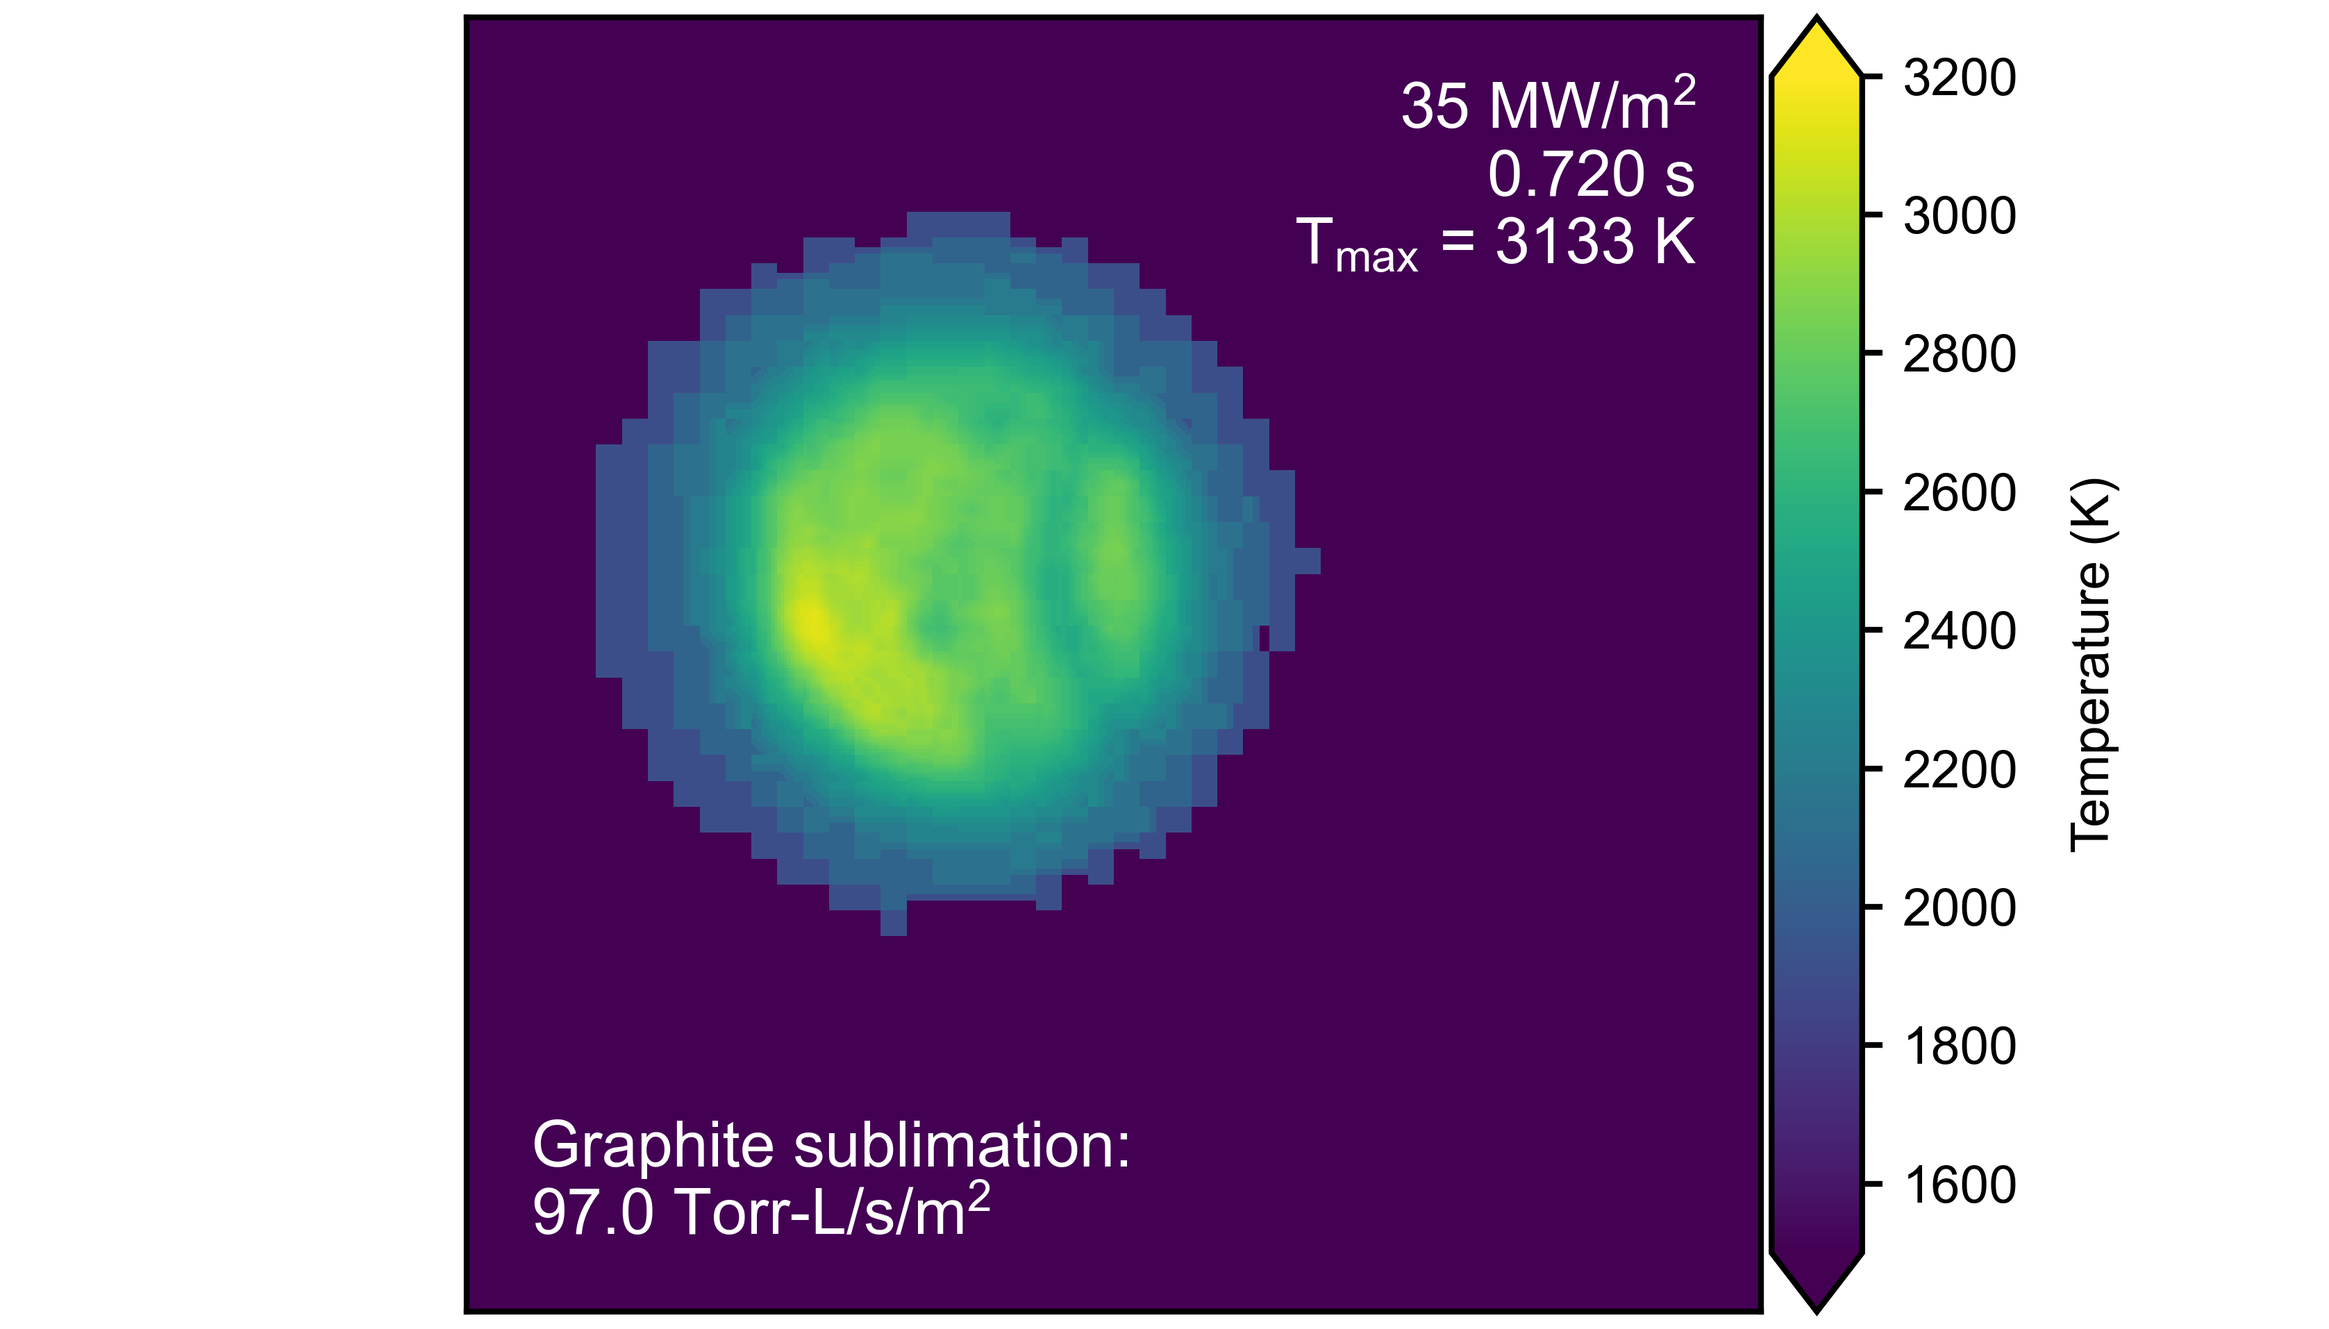
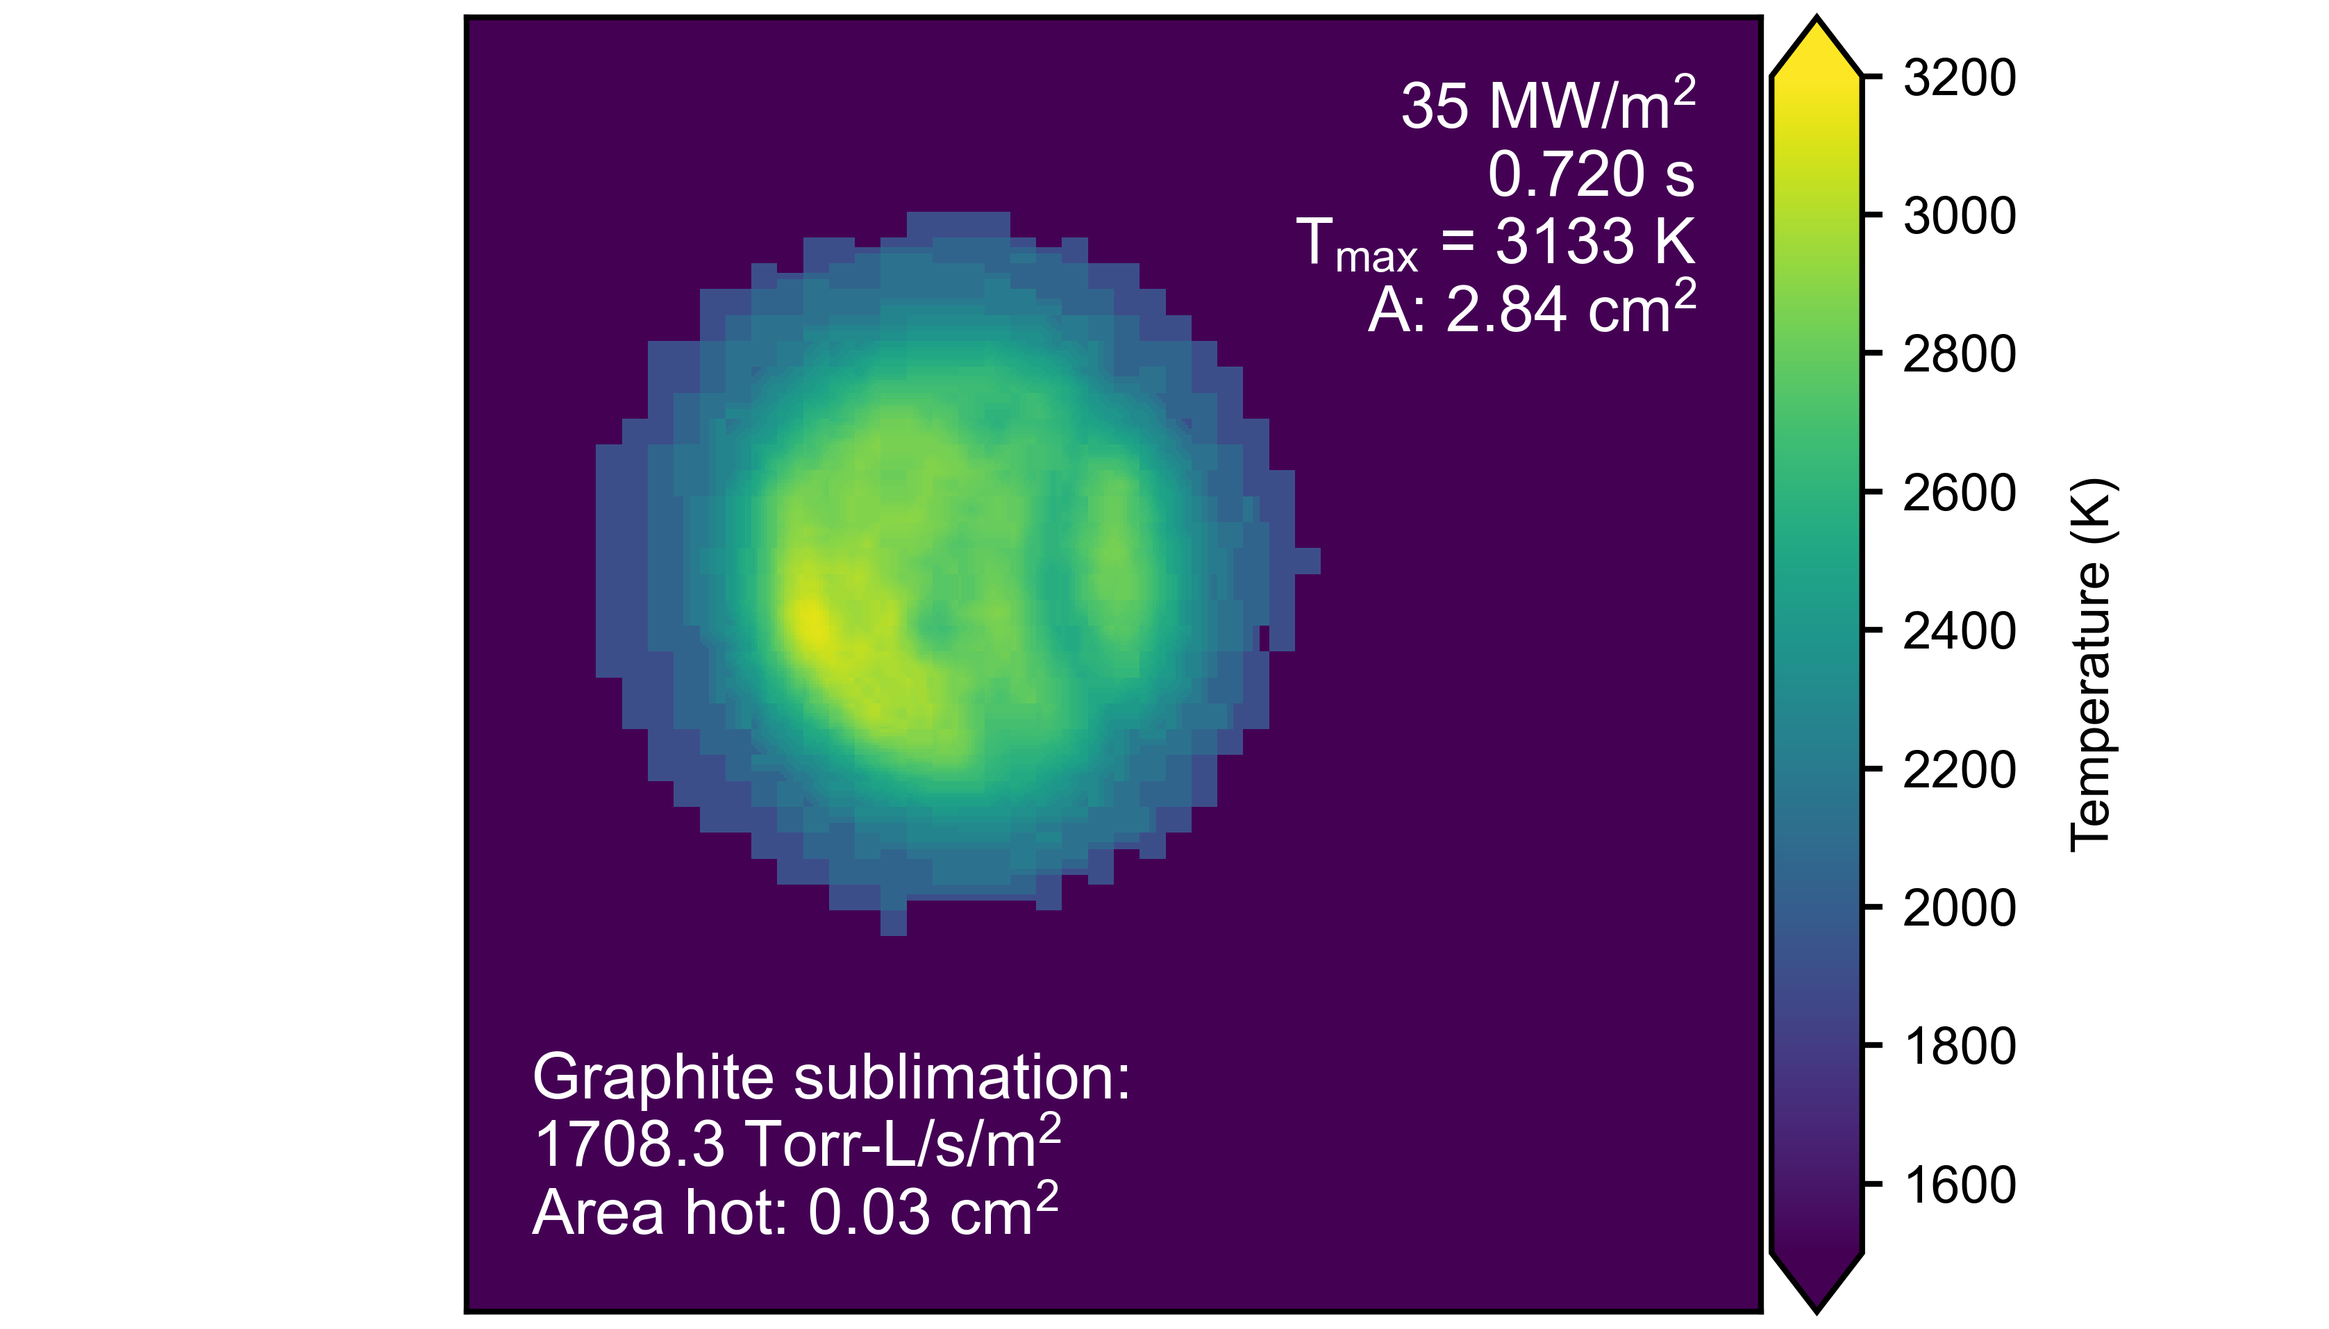
Updated graphite sublimation

Changed region(s): [[0.2171, 0.8015, 0.4961, 0.9248], [0.5891, 0.2158, 0.7442, 0.2466]]

diff --git a/data_processing/figures/2023_Q4/pebble_temperature_vs_time.py b/data_processing/figures/2023_Q4/pebble_temperature_vs_time.py
@@ -9,7 +9,7 @@ from skimage.util import crop
 
 from mpl_toolkits.axes_grid1 import make_axes_locatable
 from scipy.stats.distributions import t
-from data_processing.utils import get_experiment_params
+from data_processing.utils import get_experiment_params, latex_float
 import json
 import cv2
 
@@ -29,6 +29,9 @@ calibration_path = r'Documents\ucsd\Postdoc\research\thermal camera\calibration\
 
 beam_radius = 0.5 * 0.8165  # * 1.5 # 0.707
 sample_diameter = 1.025
+
+row_id_s = 426
+row_id_b = 435
 
 """
 Parameters for the deposition cone
@@ -157,16 +160,20 @@ def get_sublimation_rate(temperature_k, r0=r_0, ea=e_a):
     return r0 * np.exp(-ea / (8.617333262e-05 * temperature_k))
 
 
-def sublimation_rate_thermal_img(t_img, msk, area):
+def sublimation_rate_thermal_img(t_img, threshold=0):
     n, m = t_img.shape
     g_rate = 0.
     cnt = 0
+    hot_area = 0
     for i in range(n):
         for j in range(m):
-            if msk[i, j]:
-                g_rate += get_sublimation_rate(t_img[i, j])
+            temp_i = t_img[i, j]
+            if temp_i > threshold:
                 cnt += 1
-    return g_rate / cnt
+                sr = get_sublimation_rate(t_img[i, j])
+                hot_area += px2cm ** 2.
+                g_rate += sr
+    return g_rate / cnt,  hot_area
 
 
 def get_cropped_image(img) -> np.ndarray:
@@ -179,13 +186,19 @@ def get_cropped_image(img) -> np.ndarray:
     return img2
 
 
-def get_img_msk(signal) -> np.ndarray:
-    # n, m = signal.shape
-    # temp_img = np.zeros((n, m), dtype=float)
-    # for i in range(n):
-    #     for j in range(m):
-    #         temp_img[i, j] = cali[int(s)]
-    return signal > 0  # .astype(np.uint8)
+def threshold_image(signal, threshold=0):
+    msk = get_img_msk(signal, threshold)
+    n, m = signal.shape
+    temp_img = np.zeros((n, m), dtype=float)
+    for i in range(n):
+        for j in range(m):
+            if msk[i, j]:
+                temp_img[i, j] = signal[i, j]
+    return temp_img
+
+
+def get_img_msk(signal, threshold=0) -> np.ndarray:
+    return signal > threshold  # .astype(np.uint8)
 
 
 def main():
@@ -249,6 +262,20 @@ def main():
 
     sample_area_cm2 = 0.25 * np.pi * sample_diameter ** 2.
 
+    fig_bs, ax_bs = plt.subplots(nrows=1, ncols=1, constrained_layout=True)
+    # fig_bs.subplots_adjust(hspace=0)
+    fig_bs.set_size_inches(4., 3.)
+    ax_bs.set_title(r'35 MW/m$^{\mathregular{2}}$')
+    ax_bs.set_xlabel('t [s]')
+    ax_bs.set_ylabel('T [K]')
+    ax_bs.set_ylim(1000, 3000)
+    ax_bs.yaxis.set_major_locator(ticker.MultipleLocator(500))
+    ax_bs.yaxis.set_minor_locator(ticker.MultipleLocator(100))
+    ax_bs.set_xlim(0, 0.15)
+
+    ax_bs.xaxis.set_major_locator(ticker.MultipleLocator(0.05))
+    ax_bs.xaxis.set_minor_locator(ticker.MultipleLocator(0.01))
+
     for i, row in transmission_df.iterrows():
         row_id = row['ROW']
         sample_id = row['Sample ID']
@@ -285,12 +312,17 @@ def main():
 
             ax.set_title('Pebble temperature')
 
-            max_lines = 7
+            max_lines = 8
             colors = plt.cm.cool(np.linspace(0, 1, max_lines))
             current_line = 0
             max_t = -1
             frame_max = -1
             n_points = -1
+
+            max_bs_plots = 4
+            cnt_s_plots = 0
+            cnt_b_plots = 0
+
             for j, row_pebble in tracking_at_row_df.iterrows():
                 if current_line >= max_lines:
                     break
@@ -303,8 +335,28 @@ def main():
                     frame_max = j
                 ax.plot(pebble_temperature_df['Time (s)'], pebble_temperature_df['Temperature (K)'],
                         color=colors[current_line])
+
+                if row_id == row_id_s and pebble_temperature_df['Time (s)'].max() < 0.15 and cnt_s_plots < max_bs_plots:
+                    ax_bs.plot(pebble_temperature_df['Time (s)'], pebble_temperature_df['Temperature (K)'],
+                        color='tab:blue', alpha=0.75)
+                    ax_bs.text(
+                        0.95, 0.15, r'0.3 mm spheres', va='bottom', ha='right',
+                        fontsize=11, color='tab:blue',
+                        transform=ax_bs.transAxes,
+                    )
+                    cnt_s_plots += 1
+                if row_id == row_id_b and cnt_b_plots < max_bs_plots: # and pebble_temperature_df['Time (s)'].max() < 0.15:
+                    ax_bs.plot(pebble_temperature_df['Time (s)'], pebble_temperature_df['Temperature (K)'],
+                        color='tab:purple', alpha=0.75)
+                    ax_bs.text(
+                        0.95, 0.05, r'0.9 mm spheres', va='bottom', ha='right',
+                        fontsize=11, color='tab:purple',
+                        transform=ax_bs.transAxes,
+                    )
+                    cnt_b_plots += 1
+
                 current_line += 1
-            ax.set_xlim(0, 0.05 * np.ceil(max_t / 0.05))
+            ax.set_xlim(0, 0.05 * np.ceil(max_t*1.5 / 0.05))
             ax.xaxis.set_major_locator(ticker.MultipleLocator(0.05))
             ax.xaxis.set_minor_locator(ticker.MultipleLocator(0.01))
             ax.text(
@@ -316,15 +368,27 @@ def main():
             fig.savefig(os.path.join(base_path, output_file_tag + '.eps'), dpi=600)
             plt.close(fig)
 
+            # Get the image with the highest average gray value
+            img_list = [fn for fn in os.listdir(path_to_images) if fn.endswith('.jpg')]
+            mean_gray = -1
+            image_file = img_list[0]
+            for fn in img_list:
+                img = cv2.imread(os.path.join(path_to_images, fn), 0)
+                mg = img.mean()
+                if mg > mean_gray:
+                    mean_gray = mg
+                    image_file = fn
+
+
             # get the temperature over the whole image
             sid = sample_id
             if sample_id == 'R4N127-1':
                 sid = 'R4N127'
             img_file_prefix = f'{sid}_ROW{row_id}_IMG-{frame_max}'
             try:
-                image_file = find_file_that_starts_with(
-                    relative_path=path_to_images, starts_with=img_file_prefix
-                )
+                # image_file = find_file_that_starts_with(
+                #     relative_path=path_to_images, starts_with=img_file_prefix
+                # )
 
                 img = cv2.imread(os.path.join(path_to_images, image_file), 0)
                 if crop_image:
@@ -358,7 +422,11 @@ def main():
                 ax.set_yticks([])
                 cbar.update_ticks()
 
-                info_img_txt = info_txt + f'\n{max_t:.3f} s'
+                gs_rate, area_hot = sublimation_rate_thermal_img(t_img=temp_im, threshold=temp_im.max() * 0.95)
+                print(f'Sublimation rate: {gs_rate:.3E} Torr-L/s/m2')
+                transmission_df.loc[i, 'Graphite sublimation (Torr-L/s/m^2)'] = gs_rate
+
+                info_img_txt = info_txt + f'\n{gs_rate:.0f} Torr-L/s/m$^{{\mathregular{{2}}}}$'
 
                 time_txt = ax.text(
                     0.95, 0.95, info_img_txt,
@@ -369,19 +437,54 @@ def main():
                     fontsize=8
                 )
 
-                gs_rate = sublimation_rate_thermal_img(t_img=temp_im, msk=get_img_msk(img), area=sample_area_cm2)
-                print(f'Sublimation rate: {gs_rate:.3E} Torr-L/s/m2')
-                transmission_df.loc[i, 'Graphite sublimation (Torr-L/s/m^2)'] = gs_rate
+                fig2, ax2 = plt.subplots(ncols=1, nrows=1, constrained_layout=True)  # , frameon=False)
+                w, h = frameSize[1] * scale_factor * aspect_ratio * px2mm / 25.4, frameSize[
+                    0] * scale_factor * px2mm / 25.4
+                fig2.set_size_inches(w, h)
+                cs2 = ax2.imshow(threshold_image(temp_im, threshold=temp_im.max() * 0.95), interpolation='none',
+                                 norm=norm1)
+                divider2 = make_axes_locatable(ax2)
+                cax2 = divider2.append_axes("right", size="7%", pad=0.025)
+
+                # extent=(0, frameSize[1] * px2mm, 0, frameSize[0] * px2mm))
+                cbar2 = fig2.colorbar(cs2, cax=cax2, extend='both')
+                cbar2.set_label('Temperature (K)\n', size=9, labelpad=9)
+                cbar2.ax.set_ylim(1500, 3200)
+                cbar2.ax.ticklabel_format(axis='x', style='sci', useMathText=True)
+                cbar2.ax.tick_params(labelsize=9)
+                ax2.set_xticks([])
+                ax2.set_yticks([])
+                cbar2.update_ticks()
+
+                hot_spot_txt = ax2.text(
+                    0.05, 0.05, f'Area hot spots:\n{area_hot:.2f} cm$^{{\mathregular{{2}}}}$',
+                    horizontalalignment='left',
+                    verticalalignment='bottom',
+                    color='w',
+                    transform=ax2.transAxes,
+                    fontsize=11
+                )
+
+
                 fig.savefig(os.path.join(base_path, os.path.splitext(image_file)[0] + '_temp.png'), dpi=600)
                 fig.savefig(os.path.join(base_path, os.path.splitext(image_file)[0] + '_temp.svg'), dpi=600)
                 fig.savefig(os.path.join(base_path, os.path.splitext(image_file)[0] + '_temp.pdf'), dpi=600)
                 fig.savefig(os.path.join(base_path, os.path.splitext(image_file)[0] + '_temp.eps'), dpi=600)
+
+                fig2.savefig(os.path.join(base_path, os.path.splitext(image_file)[0] + 'hot_spots_.png'), dpi=600)
+
+
                 plt.close(fig)
             except IndexError as e:
                 print(img_file_prefix)
                 raise e
 
             # plt.show()
+
+    fig_bs.savefig(os.path.join(base_path, 'temperature_vs_time_sphere_sizes.png'), dpi=600)
+    fig_bs.savefig(os.path.join(base_path, 'temperature_vs_time_sphere_sizes.pdf'), dpi=600)
+    fig_bs.savefig(os.path.join(base_path, 'temperature_vs_time_sphere_sizes.eps'), dpi=600)
+    plt.close(fig_bs)
 
     ouput_deposition_rates_csv = os.path.splitext(deposition_rates_csv)[0] + '_graphite_sublimation.csv'
     transmission_df.to_csv(ouput_deposition_rates_csv, index=False)

diff --git a/data_processing/figures/2023_Q4/graphite_rod_outgassing.py b/data_processing/figures/2023_Q4/graphite_rod_outgassing.py
@@ -71,18 +71,20 @@ def get_sublimation_rate(temperature_k, r0=r_0, ea=e_a):
     return r0 * np.exp(-ea / (8.617333262e-05 * temperature_k))
 
 
-def sublimation_rate_thermal_img(t_img, msk):
+def sublimation_rate_thermal_img(t_img, sample_area, threshold=0):
     n, m = t_img.shape
     g_rate = 0.
     cnt = 0
+    hot_area = 0
     for i in range(n):
         for j in range(m):
-            if msk[i, j]:
+            temp_i = t_img[i, j]
+            if temp_i > threshold:
                 cnt += 1
                 sr = get_sublimation_rate(t_img[i, j])
-                print(f'T: {t_img[i, j]:.3f}, {sr}')
+                hot_area += px2cm ** 2.
                 g_rate += sr
-    return g_rate / cnt  # .astype(np.uint8)
+    return g_rate / cnt,  hot_area
 
 
 def get_cropped_image(img) -> np.ndarray:
@@ -95,14 +97,23 @@ def get_cropped_image(img) -> np.ndarray:
     return img2
 
 
-def get_img_msk(signal) -> np.ndarray:
+def get_img_msk(signal, threshold=0) -> np.ndarray:
     # n, m = signal.shape
     # temp_img = np.zeros((n, m), dtype=float)
     # for i in range(n):
     #     for j in range(m):
     #         temp_img[i, j] = cali[int(s)]
-    return signal > 0  # .astype(np.uint8)
+    return signal > threshold  # .astype(np.uint8)
 
+def threshold_image(signal, threshold=0):
+    msk = get_img_msk(signal, threshold)
+    n, m = signal.shape
+    temp_img = np.zeros((n, m), dtype=float)
+    for i in range(n):
+        for j in range(m):
+            if msk[i, j]:
+                temp_img[i, j] = signal[i, j]
+    return temp_img
 
 def normalize_path(the_path):
     global platform_system, drive_path
@@ -168,15 +179,33 @@ def main():
     ax.set_yticks([])
     cbar.update_ticks()
 
+    fig2, ax2 = plt.subplots(ncols=1, nrows=1, constrained_layout=True)  # , frameon=False)
+    w, h = frameSize[1] * scale_factor * aspect_ratio * px2mm / 25.4, frameSize[
+        0] * scale_factor * px2mm / 25.4
+    fig2.set_size_inches(w, h)
+    cs2 = ax2.imshow(threshold_image(temp_im, threshold=temp_im.max()*0.95), interpolation='none', norm=norm1)
+    divider2 = make_axes_locatable(ax2)
+    cax2 = divider2.append_axes("right", size="7%", pad=0.025)
+
+    # extent=(0, frameSize[1] * px2mm, 0, frameSize[0] * px2mm))
+    cbar2 = fig2.colorbar(cs2, cax=cax2, extend='both')
+    cbar2.set_label('Temperature (K)\n', size=9, labelpad=9)
+    cbar2.ax.set_ylim(1500, 3200)
+    cbar2.ax.ticklabel_format(axis='x', style='sci', useMathText=True)
+    cbar2.ax.tick_params(labelsize=9)
+    ax2.set_xticks([])
+    ax2.set_yticks([])
+    cbar2.update_ticks()
 
 
     rod_area = 0.25 * np.pi * (rod_diameter ** 2.)
     # print(temp_im, get_img_msk(img), rod_area)
 
-    gs_rate = sublimation_rate_thermal_img(t_img=temp_im, msk=get_img_msk(img))
+    gs_rate, area_hot = sublimation_rate_thermal_img(t_img=temp_im, threshold=temp_im.max()*0.95, sample_area=rod_area)
     print(f'Sublimation rate: {gs_rate:.3E} Torr-L/s/m2')
 
     info_img_txt = info_txt + f'\nT$_{{\\mathregular{{max}}}}$ = {temp_im.max():.0f} K'
+    info_img_txt += f'\n A: {rod_area:.2f} cm$^{{\mathregular{{2}}}}$'
     time_txt = ax.text(
         0.95, 0.95, info_img_txt,
         horizontalalignment='right',
@@ -187,6 +216,7 @@ def main():
     )
 
     g_s_txt = f'\nGraphite sublimation:\n{gs_rate:.1f} Torr-L/s/m$^{{\mathregular{{2}}}}$'
+    g_s_txt += f'\nArea hot: {area_hot:.2f} cm$^{{\mathregular{{2}}}}$'
     time_txt = ax.text(
         0.05, 0.05, g_s_txt,
         horizontalalignment='left',
@@ -195,8 +225,18 @@ def main():
         transform=ax.transAxes,
         fontsize=11
     )
+
+    hot_spot_txt = ax2.text(
+        0.05, 0.05, 'Hot spots',
+        horizontalalignment='left',
+        verticalalignment='bottom',
+        color='w',
+        transform=ax2.transAxes,
+        fontsize=11
+    )
     # transmission_df.loc[i, 'Graphite sublimation (Torr-L/s/m^2)'] = gs_rate
     fig.savefig(output_file_tag + '.png', dpi=600)
+    fig2.savefig(output_file_tag + 'hot_spots_.png', dpi=600)
     # fig.savefig(os.path.join(base_path, os.path.splitext(image_file)[0] + '_temp.svg'), dpi=600)
     # fig.savefig(os.path.join(base_path, os.path.splitext(image_file)[0] + '_temp.pdf'), dpi=600)
     # fig.savefig(os.path.join(base_path, os.path.splitext(image_file)[0] + '_temp.eps'), dpi=600)

diff --git a/data_processing/figures/2023_Q4/baking_time_20231126.py b/data_processing/figures/2023_Q4/baking_time_20231126.py
@@ -255,7 +255,7 @@ def main():
     )
 
     axes[0].set_ylabel('Torr-L/s/m$^{\mathregular{2}}$')
-    axes[0].set_ylim(1E-1, 1E6)
+    axes[0].set_ylim(1E2, 1E6)
     axes[0].set_title('Outgassing')
 
 
@@ -273,7 +273,7 @@ def main():
         ax.xaxis.set_minor_locator(ticker.MultipleLocator(5))
 
 
-    axes[0].legend(loc='lower right', frameon=True, fontsize=10)
+    axes[0].legend(loc='center right', frameon=True, fontsize=10)
     # axes[0].legend(bbox_to_anchor=(1.05, 1),
     #                loc='upper left', borderaxespad=0., fontsize=9)
 

diff --git a/data_processing/figures/2023_Q4/sphere_diameter_20231125.py b/data_processing/figures/2023_Q4/sphere_diameter_20231125.py
@@ -263,7 +263,7 @@ def main():
         )
 
     axes[0].set_ylabel('Torr-L/s/m$^{\mathregular{2}}$')
-    axes[0].set_ylim(1, 1E6)
+    axes[0].set_ylim(10, 1E6)
     axes[0].set_title('Outgassing rate')
 
     axes[1].set_xlabel('Weight % of 850 $\mathregular{\mu}$m spheres')
